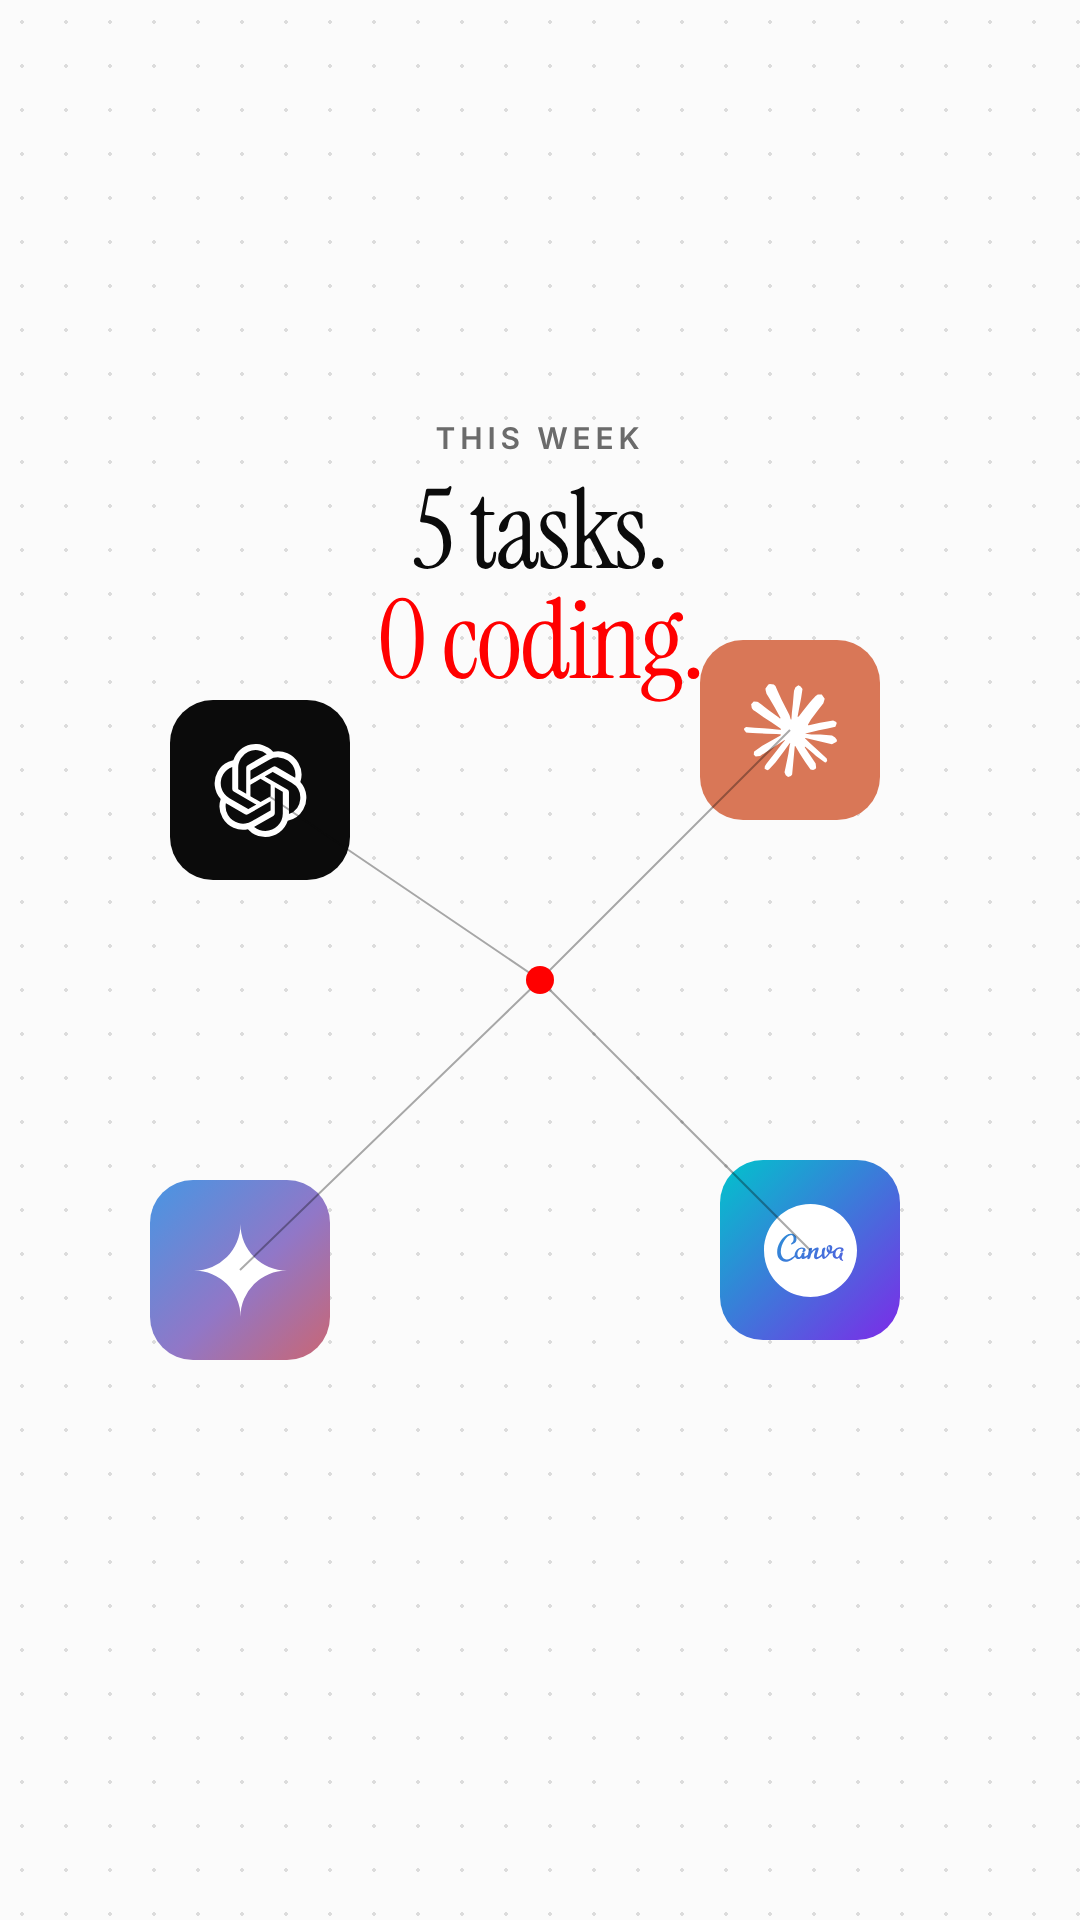
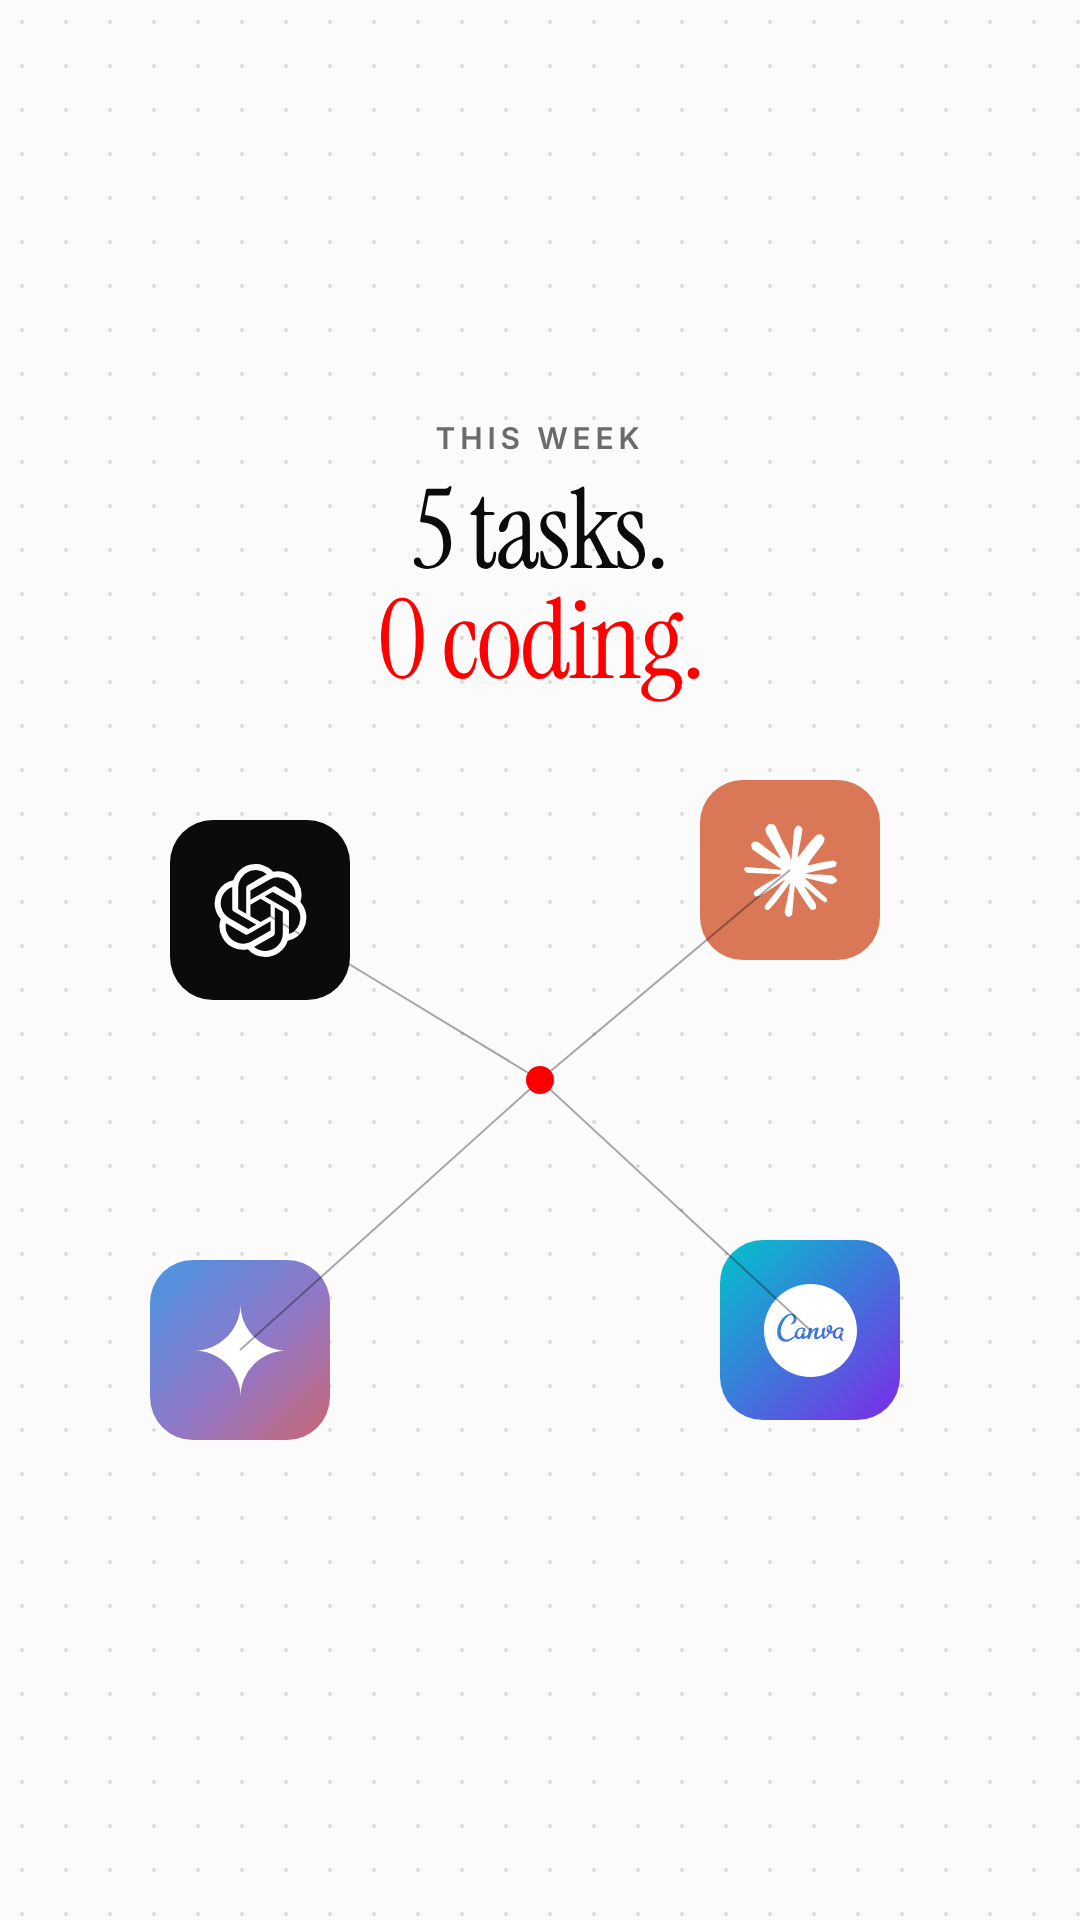
Fix R01 map graphic render and write timeline v2 into the plan
Claude-Session: https://claude.ai/code/session_01EwSRgi461yGSE7PSpZwDes

diff --git a/editor (karan personal)/projects/reels/R01_5-tasks-to-AI/cutaways_generator_styleA.py b/editor (karan personal)/projects/reels/R01_5-tasks-to-AI/cutaways_generator_styleA.py
@@ -53,10 +53,10 @@ print(len(files))
 # --- grammar additions ---
 extra={}
 logos=["openai","claude","googlegemini","canva"]
-pos=[(170,700),(700,640),(150,1180),(720,1160)]
+pos=[(170,820),(700,780),(150,1260),(720,1240)]
 extra["00b_map_graphic"]=("<div class='grid'></div><div style='position:absolute;left:80px;right:80px;top:420px;text-align:center'><div style='font:600 30px Inter;letter-spacing:.16em;color:#6B6B6B'>THIS WEEK</div><div class='serif' style='font-size:110px;line-height:1;margin-top:20px'>5 tasks.<br><span style=\"color:#FF0000\">0 coding.</span></div></div>"+
  "".join(f"<div style='position:absolute;left:{x}px;top:{y}px'>{ltile(n,180)}</div>" for n,(x,y) in zip(logos,pos))+
- "<svg style='position:absolute;inset:0' width='1080' height='1920'><g stroke='#0B0B0B' stroke-width='2' fill='none' opacity='.35'><path d='M260 790 L540 980 L790 730'/><path d='M240 1270 L540 980 L810 1250'/></g><circle cx='540' cy='980' r='14' fill='#FF0000'/></svg>",False)
+ "<svg style='position:absolute;inset:0' width='1080' height='1920'><g stroke='#0B0B0B' stroke-width='2' fill='none' opacity='.35'><path d='M260 910 L540 1080 L790 870'/><path d='M240 1350 L540 1080 L810 1330'/></g><circle cx='540' cy='1080' r='14' fill='#FF0000'/></svg>",False)
 extra["09_logo_row_OVERLAY"]=("<div style='position:absolute;left:0;right:0;top:240px;display:flex;justify-content:center;gap:26px'>"+"".join(ltile(n,130) for n in logos)+f"<div style='width:130px;height:130px;border-radius:31px;background:#fff;border:3px solid #0B0B0B;display:grid;place-items:center'>{ic('message-square-reply','#0B0B0B',70,2)}</div></div>",True)
 for k,n in enumerate(logos,1):
     extra[f"10_burst_{k}_{n}"]=(f"<div class='grid'></div><div style='position:absolute;inset:0;display:grid;place-items:center'>{ltile(n,420)}</div>",False)

diff --git a/editor (karan personal)/projects/reels/R01_5-tasks-to-AI/REEL_SCRIPT_AND_EDIT_PLAN.md b/editor (karan personal)/projects/reels/R01_5-tasks-to-AI/REEL_SCRIPT_AND_EDIT_PLAN.md
@@ -7,26 +7,35 @@ Format: your reference reels, **Style A (Clean Tech Minimal)**. Black title box 
 - Solid black or white T-shirt. Look at the lens. Pause half a second between lines (makes cutting easy).
 - Mic: phone 30 cm away or a lapel mic. Quiet room.
 
-## 2. Script + edit timeline
-| Time | You say (A-roll) | On screen | Cutaway file |
+## 2. Script + edit timeline v2 (follows `knowledge/REEL_EDITING_GRAMMAR.md`)
+W = wide A-roll, P = punch-in 120% (alternate on every A-roll cut). Captions run the whole time (1–3 words).
+
+| Time | You say | Picture | Asset |
 |---|---|---|---|
-| 0–2 s | "Stop using AI only for captions." | Hook overlay on top of you | `00_hook_title_OVERLAY.png` (0–3 s) |
-| 2–6 s | "Here are 5 tasks you can hand to AI this week. Save this." | Captions only | — |
-| 6–11 s | "One: caption first drafts. Ask ChatGPT for 10 hooks, pick one, then edit it in your words." | Cut to card after "one" | `01_task1_chatgpt.png` (≈3 s) |
-| 11–16 s | "Two: paste a long brief into Claude and ask for decisions, questions and next steps." | Card | `02_task2_claude.png` |
-| 16–21 s | "Three: research a topic fast with Gemini. But always check the sources." | Card | `03_task3_gemini.png` |
-| 21–26 s | "Four: design one post in Canva, then resize it for Story and Reel cover." | Card | `04_task4_canva.png` |
-| 26–31 s | "Five: list your 10 most asked DM questions and let AI draft quick replies." | Card | `05_task5_any.png` |
-| 31–37 s | "One rule: AI writes the first draft. You make it yours." | Rule card on "one rule" | `06_rule_diagram.png` (≈3 s) |
-| 37–45 s | "Want the exact prompt for each task? Comment TOOLS and I'll DM you all five." | Stay on you, pill overlay | `07_cta_pill_OVERLAY.png` (last 4–5 s, transparent) |
+| 0–2.0 s | "Stop using AI only for captions." | W, you + hook box (stays through the line) | `00_hook_title_OVERLAY` 0–2.5 s |
+| 2.0–4.5 s | "Here are 5 tasks you can hand to AI this week." | **Map graphic** (rule 2) | `00b_map_graphic` |
+| 4.5–6 s | "Save this." | P, you + logo row pops above your head (rule 6) | `09_logo_row_OVERLAY` |
+| 6–8 s | "One: caption first drafts." | W | — |
+| 8–11 s | "Ask ChatGPT for 10 hooks, pick one, then edit it in your words." | Task card, chat bubbles pop in on the words | `01_task1_chatgpt` |
+| 11–13 s | "Two: summarise long documents." | P | — |
+| 13–16 s | "Paste a brief into Claude: decisions, questions, next steps." | Task card | `02_task2_claude` |
+| 16–19 s | "Three: research fast with Gemini, but check the sources." | Task card | `03_task3_gemini` |
+| 19–21 s | "Four: design once in Canva..." | W | — |
+| 21–23 s | "...then resize it for Story and Reel cover." | Task card, 9:16 frame pops in red | `04_task4_canva` |
+| 23–25 s | "Five: draft your DM replies." | P | — |
+| 25–27 s | "List your top 10 questions, let AI draft the replies." | Task card | `05_task5_any` |
+| 27–29 s | "That's ChatGPT, Claude, Gemini, Canva..." | **Burst montage** 0.4 s each (rule 7) | `10_burst_1..4` |
+| 29–34 s | "One rule: AI writes the first draft. You make it yours." | Rule diagram, nodes draw in one by one | `06_rule_diagram` |
+| 34–36 s | "Want the exact prompt for each task?" | P | — |
+| 36–42 s | "Comment TOOLS and I'll DM you all five." | **End on your face** + pill animates in (rule 9) | `07_cta_pill_OVERLAY` last 5 s |
 
 ## 3. Edit steps (CapCut or InShot)
 1. Import your clip. Cut out pauses and mistakes (jump cuts are fine, keep each shot 3–5 s).
 2. Put `00_hook_title_OVERLAY.png` on an overlay track for 0–3 s (it's transparent).
 3. Drop cards 01–07 as full-screen cutaways at the times above, keeping your voice underneath.
 4. Auto-captions (Style A): Inter Light, white, large (~110 px on 1080 wide), soft shadow, 1–3 words, placed mid-frame above your head line; one key word in Bold. See `08_caption_style_SAMPLE_OVERLAY.png`.
-5. Light zoom-in (105%) on every other A-roll cut. Soft whoosh SFX on each card, low volume.
-6. Audio: normalise to around −14 LUFS. No loud music; a quiet beat at −25 dB is enough.
+5. Alternate W / P (120% scale) on every A-roll cut. Animate each card: pop-in 0.15 s; chat bubbles and diagram nodes appear on the spoken word. Hard cuts only (no flash transitions in Style A). Quiet pop/whoosh on card entries.
+6. Audio: a music bed runs under the voice the whole time (around −25 dB, never silent). Compress the voice and master to −14 LUFS.
 7. Cover: a frame of you with the black hook box (`00_hook_title_OVERLAY.png`).
 8. Export 1080×1920, 30 fps, high bitrate.
 
